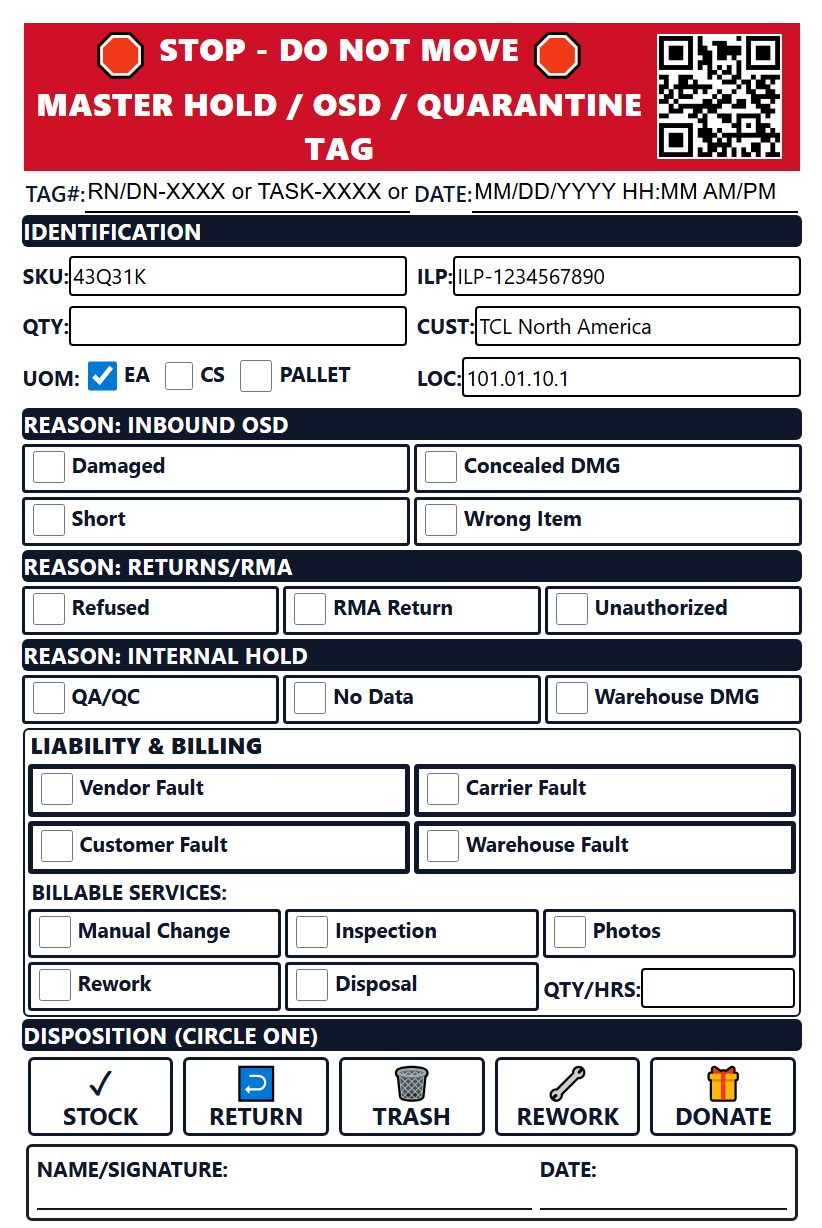
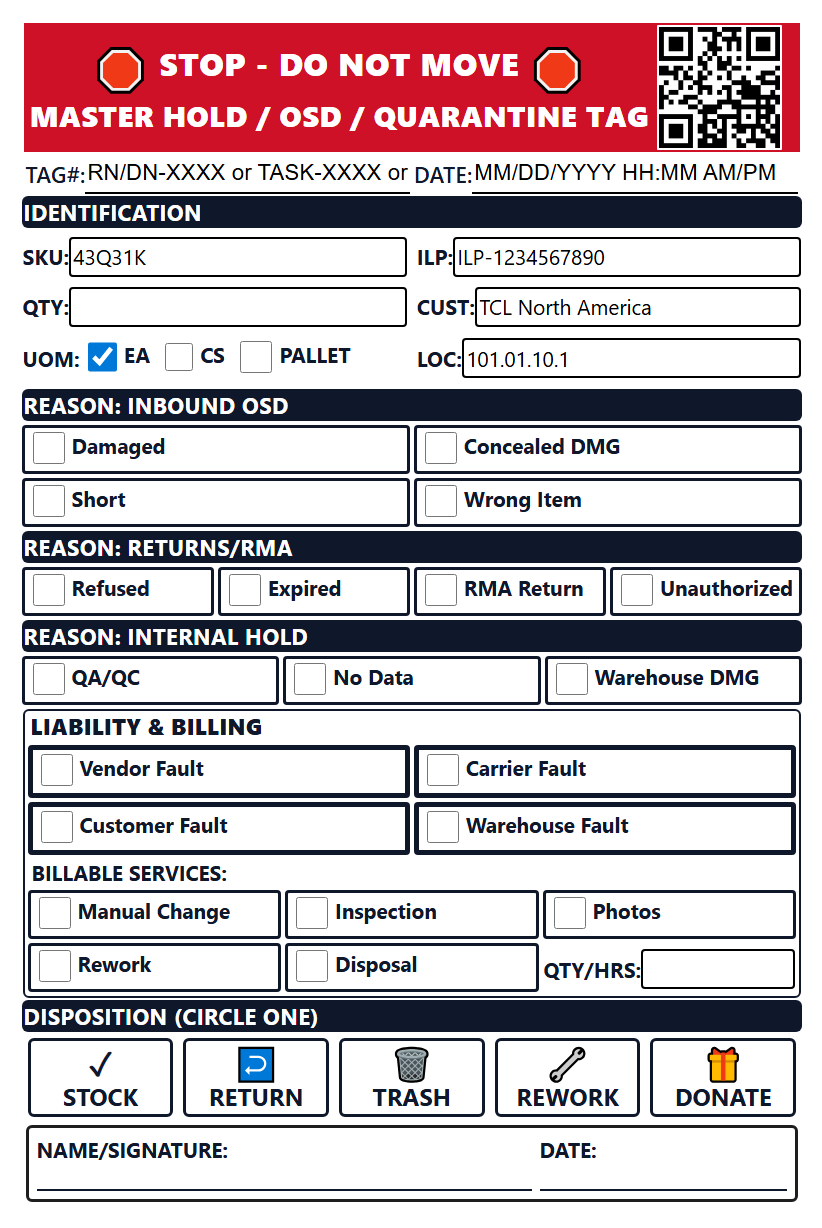
add expired

diff --git a/src/pages/hold_OSD_quarantine_card.html b/src/pages/hold_OSD_quarantine_card.html
@@ -106,10 +106,14 @@
       </div>
 
       <div class="section-header">REASON: RETURNS/RMA</div>
-      <div class="checkbox-group three-col">
+      <div class="checkbox-group four-col">
         <div class="checkbox-item">
           <input type="checkbox" id="rma-refused">
           <div class="checkbox-label"><strong>Refused</strong></div>
+        </div>
+        <div class="checkbox-item">
+          <input type="checkbox" id="rma-expired">
+          <div class="checkbox-label"><strong>Expired</strong></div>
         </div>
         <div class="checkbox-item">
           <input type="checkbox" id="rma-return">

diff --git a/src/styles/hold_osd_quarantine.css b/src/styles/hold_osd_quarantine.css
@@ -66,7 +66,7 @@ body {
 }
 
 .alert-subtitle {
-  font-size: 2rem;
+  font-size: 1.8rem;
 }
 
 .header-images {
@@ -171,6 +171,10 @@ body {
 
 .checkbox-group.three-col {
   grid-template-columns: repeat(3, 1fr);
+}
+
+.checkbox-group.four-col {
+  grid-template-columns: repeat(4, 1fr);
 }
 
 .form-field {
